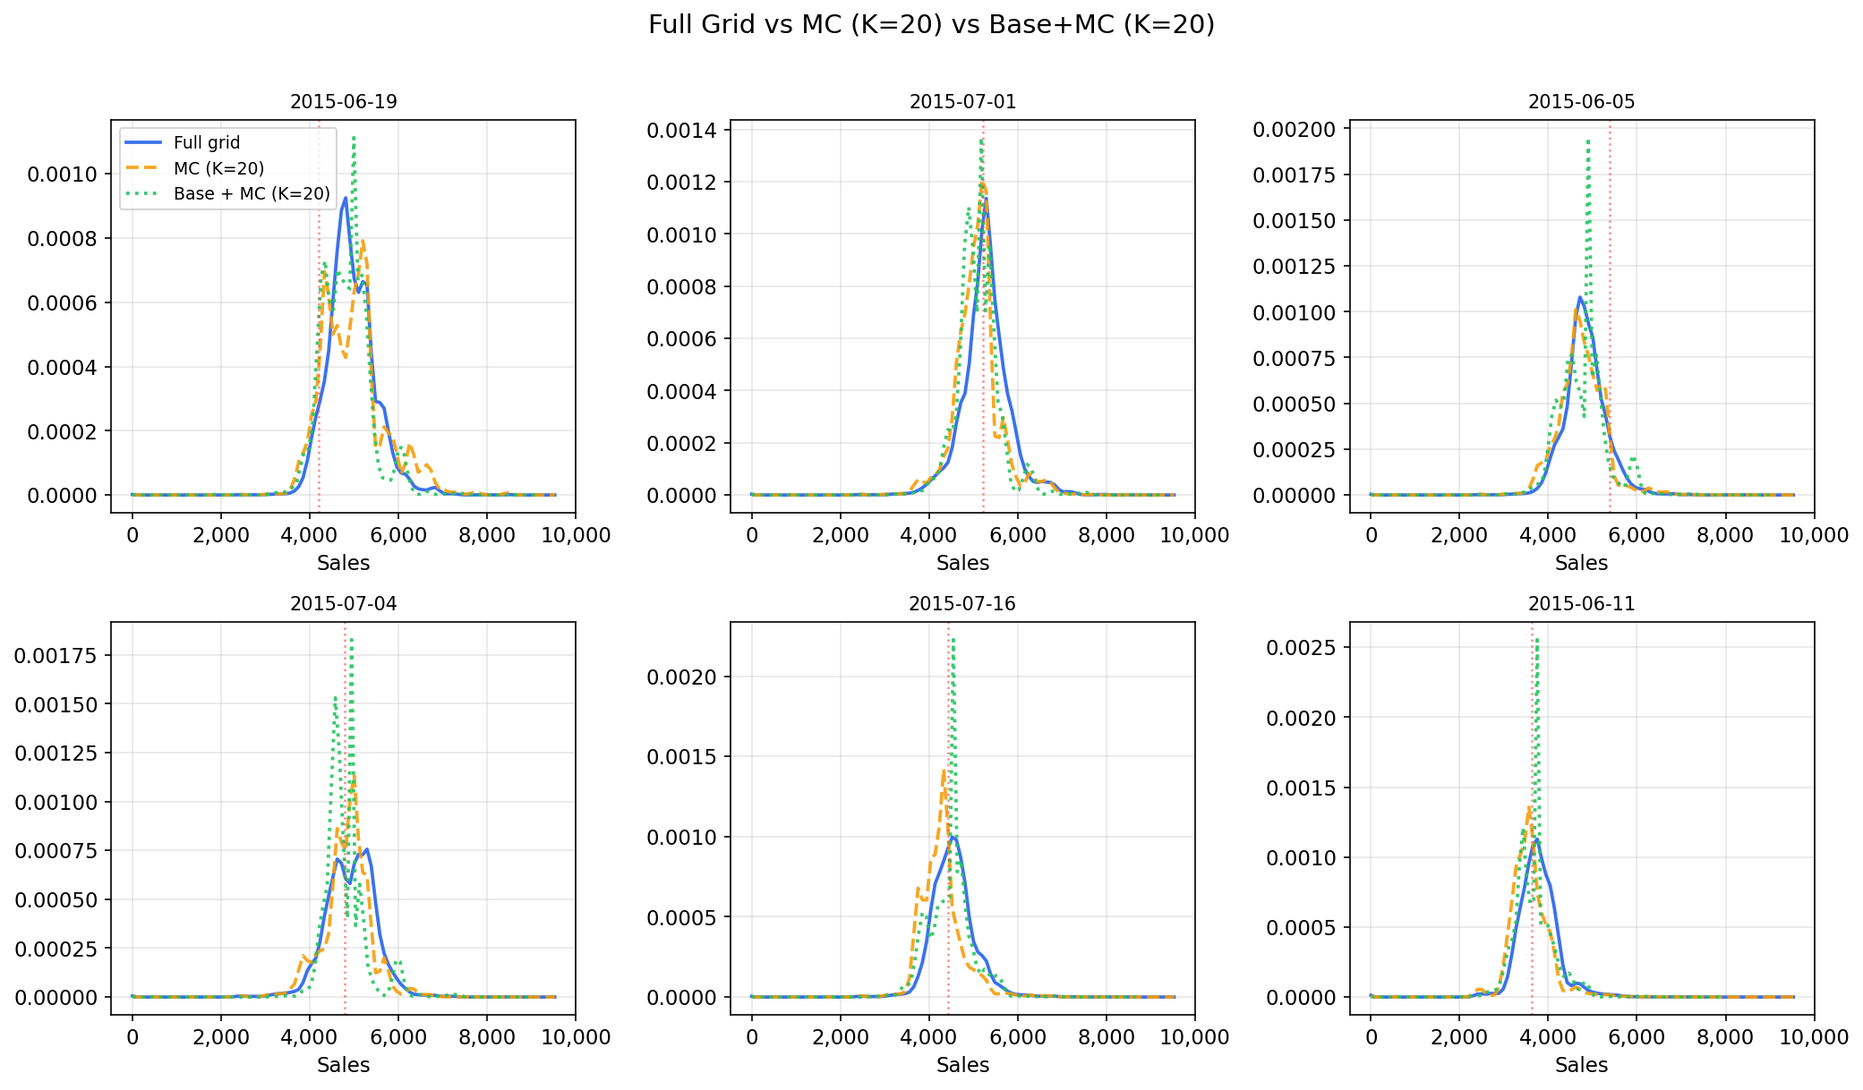
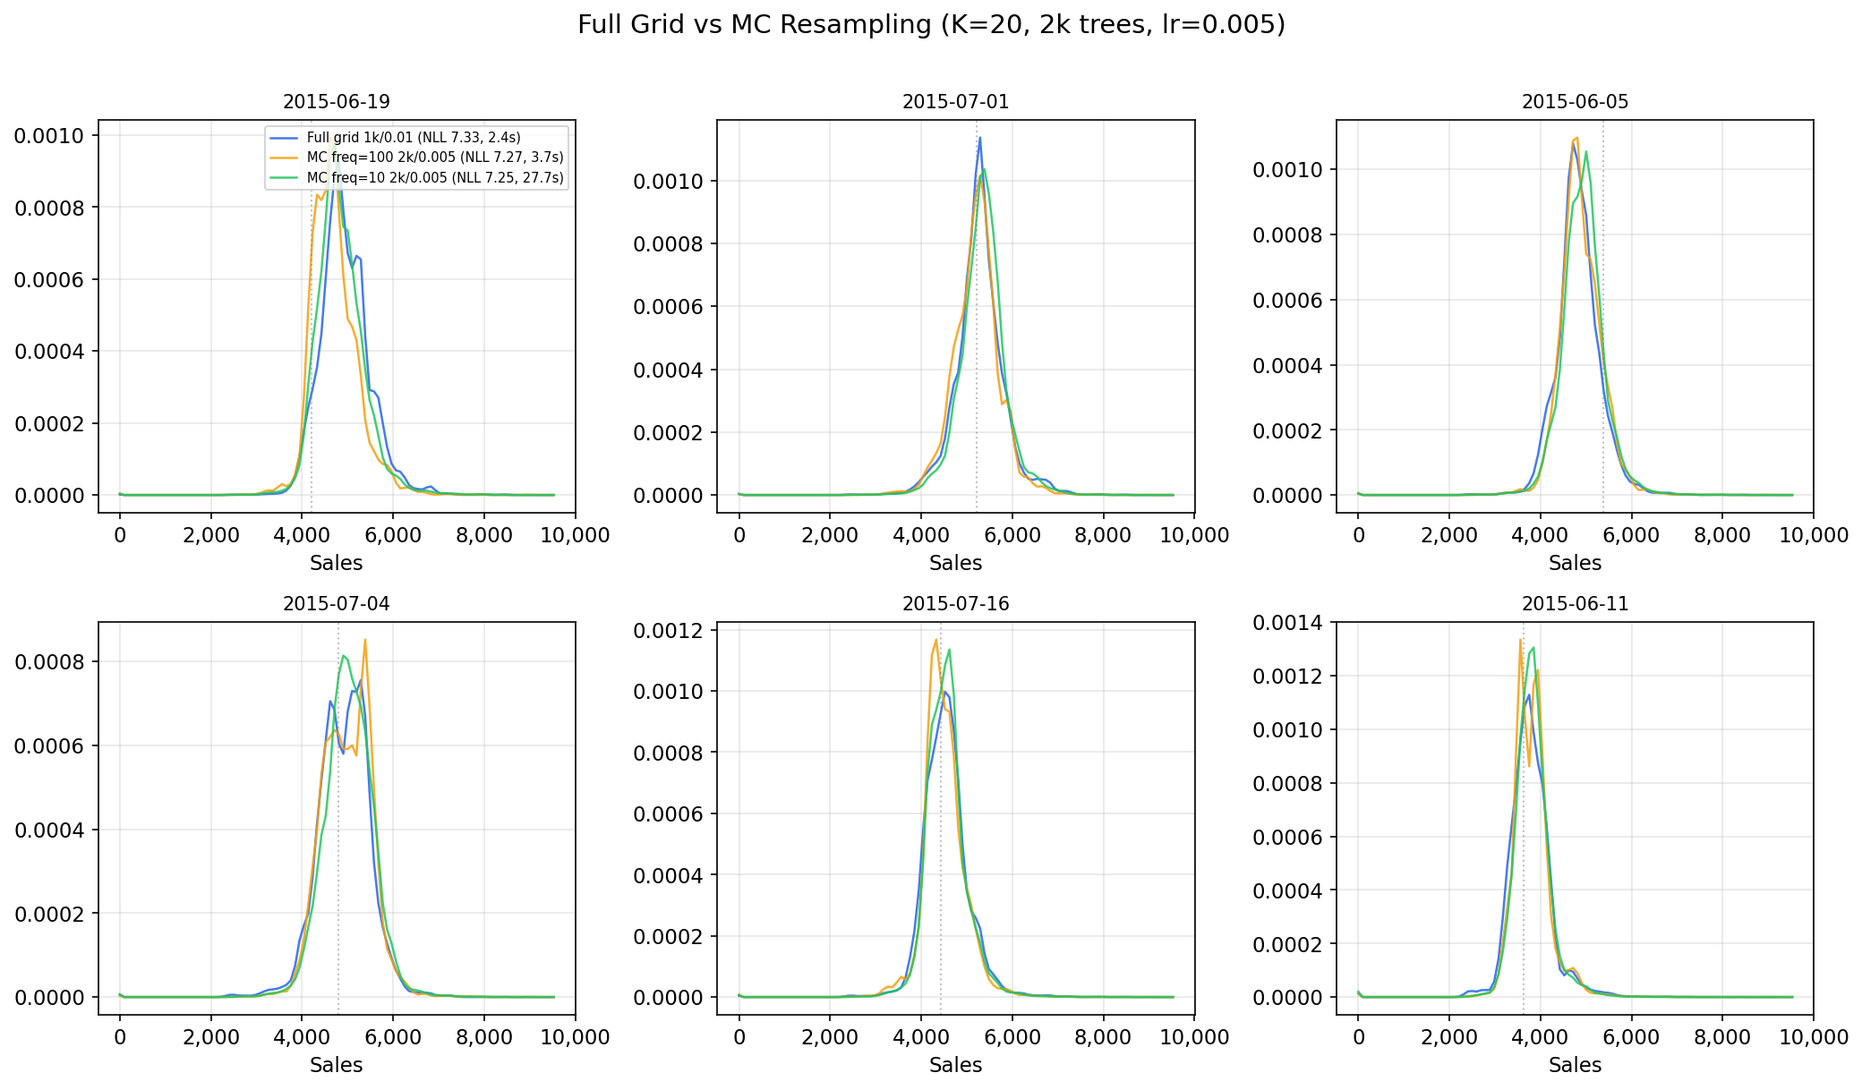
Add mc_resample_freq parameter and update documentation for Monte Carlo training

diff --git a/docs/index.html b/docs/index.html
@@ -839,12 +839,16 @@ model.<span class="fn">set_output_smoothing</span>(output_smoothing=<span class=
             <td><code>monte_carlo_training</code></td><td><code>False</code></td>
             <td>If True, samples a small number of grid points per training sample instead of using the full grid.
                 Reduces memory from <code>n &times; n_bins</code> to <code>n &times; mc_samples</code>.
-                This is an approximation - use only when memory is a constraint.</td>
+                Use with <code>mc_resample_freq</code> for better quality.</td>
           </tr>
           <tr>
             <td><code>mc_samples</code></td><td>5</td>
-            <td>Number of grid points per sample when <code>monte_carlo_training=True</code>. Higher values (e.g., 20)
-                give better approximations. Always a quality trade-off vs. full grid.</td>
+            <td>Number of grid points per sample when <code>monte_carlo_training=True</code>. 20 is a good default.</td>
+          </tr>
+          <tr>
+            <td><code>mc_resample_freq</code></td><td>100</td>
+            <td>Resample MC grid points every this many trees. Lower values give better grid coverage
+                (like SGD over threshold space). 100 is a good default; 10 gives the best quality.</td>
           </tr>
         </tbody>
       </table>
@@ -884,6 +888,7 @@ model.<span class="fn">set_output_smoothing</span>(output_smoothing=<span class=
     use_base_model=<span class="num">False</span>,     <span class="com"># advanced: learn residual distribution</span>
     monte_carlo_training=<span class="num">False</span>,<span class="com"># advanced: memory-efficient MC sampling</span>
     mc_samples=<span class="num">5</span>,             <span class="com"># advanced: MC points per sample</span>
+    mc_resample_freq=<span class="num">100</span>,     <span class="com"># advanced: resample grid points every N trees</span>
     **kwargs                  <span class="com"># passed to LGBMRegressor</span>
 )</pre>
 
@@ -1258,38 +1263,37 @@ model = DistributionRegressor(
       <div class="container">
         <h2>Monte Carlo Training (<code>monte_carlo_training</code>)</h2>
 
-        <div class="highlight-box amber">
-          <strong>Monte Carlo training is an approximation.</strong>
-          Full grid training (the default) gives the highest quality results. Monte Carlo training
-          reduces memory usage significantly but produces noticeably different distributions.
-          Use it only when memory is a binding constraint.
-        </div>
-
         <p class="section-lead">
           By default, the training set is expanded to <code>n_samples &times; n_bins</code> rows: every sample is
-          paired with every grid point. Monte Carlo training instead samples a small number of grid points per
-          sample, reducing the expanded dataset size dramatically - at the cost of distribution quality.
+          paired with every grid point. Monte Carlo training instead samples <code>mc_samples</code> uniform
+          grid points per sample, reducing peak memory significantly. With periodic resampling
+          (<code>mc_resample_freq</code>), different groups of trees train on different random grid points,
+          improving coverage of the threshold space.
         </p>
 
         <h3>How it works</h3>
         <p>
-          For each training sample, Monte Carlo mode selects <code>mc_samples</code> threshold points:
+          For each training sample, <code>mc_samples</code> threshold points are drawn uniformly from the
+          grid range. The <code>mc_resample_freq</code> parameter controls how often fresh points are drawn:
         </p>
         <ul style="padding-left: 20px; color: var(--text-muted); margin: 12px 0;">
-          <li><strong>Point 0:</strong> The exact target value y<sub>i</sub> (the CDF transition point)</li>
-          <li><strong>Points 1&ndash;K:</strong> Uniformly sampled from the grid range</li>
+          <li><strong>mc_resample_freq=100</strong> (default): Resample every 100 trees.
+              With 1000 trees, the model trains on 10 different random grids. Low overhead.</li>
+          <li><strong>mc_resample_freq=10</strong>: Resample every 10 trees. More grid coverage,
+              but higher overhead from repeated dataset construction and LightGBM <code>init_model</code> calls.</li>
         </ul>
         <p>
-          Because each sample only sees K grid points instead of all <code>n_bins</code>, the model receives
-          a sparser training signal. The overall shape is preserved, but fine details of the distribution
-          - peak height, tail behavior, sharpness - can differ from the full grid result.
+          Resampling works via LightGBM's incremental training (<code>init_model</code>): each group
+          of trees continues from the previous model but trains on a freshly sampled expanded dataset.
+          The idea is analogous to mini-batch SGD &mdash; each batch of trees sees a different
+          random slice of the threshold space.
         </p>
 
         <h3>Memory comparison</h3>
         <div class="comparison">
           <div>
             <h4><code>monte_carlo_training=False</code> (default)</h4>
-            <p>Each sample is crossed with <em>all</em> grid points. Best quality.</p>
+            <p>Each sample is crossed with <em>all</em> grid points.</p>
             <p style="margin-top: 8px; font-size: 0.9rem; color: var(--text-muted);">
               100k samples &times; 100 bins = <strong>10M rows</strong>
             </p>
@@ -1299,7 +1303,7 @@ model = DistributionRegressor(
           </div>
           <div>
             <h4><code>monte_carlo_training=True</code></h4>
-            <p>Each sample gets <code>mc_samples</code> sampled points. Approximate.</p>
+            <p>Each sample gets <code>mc_samples</code> points per resampling round.</p>
             <p style="margin-top: 8px; font-size: 0.9rem; color: var(--text-muted);">
               100k samples &times; 20 MC points = <strong>2M rows</strong>
             </p>
@@ -1311,40 +1315,48 @@ model = DistributionRegressor(
 
         <h3>When to use it</h3>
         <p>
-          Use Monte Carlo training only when the full grid expansion would exceed your available memory.
-          This typically happens with very large training sets (100k+ samples) combined with
-          high <code>n_bins</code> (100+). For small to medium datasets, full grid training is fast,
-          fits easily in memory, and should always be preferred.
+          MC training is useful when full grid expansion would exceed available memory &mdash;
+          typically with large training sets (100k+ samples) and high <code>n_bins</code> (100+).
+          For small to medium datasets, the full grid is simpler and fast enough.
         </p>
         <p style="margin-top: 12px;">
-          Higher <code>mc_samples</code> values (e.g., 20) give better approximations at the cost of more memory.
-          There is always a quality trade-off - if memory allows, use the full grid.
+          Resampling (<code>mc_resample_freq</code>) significantly improves MC quality compared to
+          single-shot MC. In our benchmarks on the Rossmann dataset, MC with <code>mc_resample_freq=10</code>
+          produced distributions visually close to the full grid, with comparable NLL.
+          Results may vary by dataset &mdash; we recommend comparing on your own data.
         </p>
 
-<pre><span class="com"># Full grid (default) - always prefer this when memory allows</span>
+<pre><span class="com"># Full grid (default) - simple, good for small/medium datasets</span>
 model = DistributionRegressor(n_bins=<span class="num">100</span>)
 
-<span class="com"># Monte Carlo - approximate, for large datasets where memory is tight</span>
+<span class="com"># MC with resampling - for large datasets where memory is tight</span>
 model = DistributionRegressor(
     monte_carlo_training=<span class="num">True</span>,
     mc_samples=<span class="num">20</span>,
+    mc_resample_freq=<span class="num">100</span>,   <span class="com"># resample grid points every 100 trees</span>
+    n_bins=<span class="num">100</span>,
+)
+
+<span class="com"># MC with frequent resampling - better grid coverage, more overhead</span>
+model = DistributionRegressor(
+    monte_carlo_training=<span class="num">True</span>,
+    mc_samples=<span class="num">20</span>,
+    mc_resample_freq=<span class="num">10</span>,    <span class="com"># resample every 10 trees</span>
     n_bins=<span class="num">100</span>,
 )</pre>
 
         <h3>Quality comparison</h3>
         <p>
-          Monte Carlo training preserves the overall distribution shape but differs in detail
-          from the full grid result. The chart below also shows the effect of combining
-          <code>use_base_model=True</code> with MC training, which produces narrower, shifted distributions:
+          The chart below compares the full grid against MC with two resampling frequencies
+          on the Rossmann dataset. With <code>mc_resample_freq=10</code>, MC closely tracks the
+          full grid distributions:
         </p>
 
         <figure class="figure">
-          <img src="img/mc_comparison.png" alt="Full grid vs MC vs Base+MC comparison">
+          <img src="img/mc_comparison.png" alt="Full grid vs MC resampling comparison">
           <figcaption>
-            Predicted densities on Rossmann test samples. Blue = full grid (reference),
-            orange dashed = MC with K=20 (approximate), green dotted = base model + MC with K=20
-            (narrower, shifted). MC training is a useful approximation when memory is constrained,
-            but full grid training should be preferred when feasible.
+            Predicted densities on Rossmann test samples. Blue = full grid,
+            orange = MC K=20 with freq=100, green = MC K=20 with freq=10.
           </figcaption>
         </figure>
       </div>
@@ -1401,8 +1413,9 @@ model = DistributionRegressor(
         </table>
         <p style="margin-top: 12px; color: var(--text-muted); font-size: 0.95rem;">
           Higher <code>n_bins</code> gives finer resolution but increases memory linearly.
-          If memory is tight, combine higher <code>n_bins</code> with <code>monte_carlo_training=True</code>,
-          but note this is an approximation (see <a href="#" onclick="showSubPage('options', 'montecarlo'); return false;">Monte Carlo Training</a>).
+          If memory is tight, combine higher <code>n_bins</code> with <code>monte_carlo_training=True</code>
+          and <code>mc_resample_freq</code>
+          (see <a href="#" onclick="showSubPage('options', 'montecarlo'); return false;">Monte Carlo Training</a>).
         </p>
 
         <h3>Step 3: Tune the LightGBM parameters</h3>

diff --git a/distribution_regressor/distribution_regressor_CDF.py b/distribution_regressor/distribution_regressor_CDF.py
@@ -41,6 +41,12 @@ class DistributionRegressorCDF(BaseEstimator, RegressorMixin):
         Number of threshold sample points per observation when
         monte_carlo_training=True.
 
+    mc_resample_freq : int, default=100
+        Resample MC grid points every this many trees. E.g. 1 means every
+        tree gets fresh grid points, 100 means resample every 100 trees.
+        Lower = better grid coverage but more overhead. Only used when
+        monte_carlo_training=True.
+
     output_smoothing : float, default=0
         Gaussian smoothing sigma (in grid-index units) applied to the CDF
         before deriving any outputs. Set to 0 to disable. Can be changed
@@ -71,6 +77,7 @@ class DistributionRegressorCDF(BaseEstimator, RegressorMixin):
         learning_rate=0.1,
         monte_carlo_training=False,
         mc_samples=5,
+        mc_resample_freq=100,
         output_smoothing=0,
         atom_values=None,
         random_state=None,
@@ -82,6 +89,7 @@ class DistributionRegressorCDF(BaseEstimator, RegressorMixin):
         self.learning_rate = learning_rate
         self.monte_carlo_training = monte_carlo_training
         self.mc_samples = mc_samples
+        self.mc_resample_freq = mc_resample_freq
         self.output_smoothing = output_smoothing
         self.atom_values = atom_values
         self.random_state = random_state
@@ -200,64 +208,63 @@ class DistributionRegressorCDF(BaseEstimator, RegressorMixin):
         self.grid_ = np.linspace(t_min, t_max, self.n_bins)
 
         # ------------------------------------------------------------------
-        # 4. Training Expansion
+        # 4. Training Expansion + Fitting
         # ------------------------------------------------------------------
         if self.use_base_model:
             r_min = np.maximum(t_min, self.y_min_ - oof_predictions)
             r_max = np.minimum(t_max, self.y_max_ - oof_predictions)
 
-        if self.monte_carlo_training:
-            K = self.mc_samples
-            rng = np.random.default_rng(self.random_state)
-            g_points = np.empty((n_samples, K))
+        use_mc = self.monte_carlo_training
+        K = self.mc_samples if use_mc else self.n_bins
+        freq = self.mc_resample_freq if use_mc else self.n_estimators
+        rng = np.random.default_rng(self.random_state) if use_mc else None
 
-            # Point 0: exact transition point (where CDF jumps from 0 to 1)
-            g_points[:, 0] = target_for_grid
+        # Monotone constraint: CDF must be non-decreasing in grid_point (last col)
+        n_cols = X_df.shape[1] + 1  # +1 for grid_point column
+        mono_constraints = [0] * (n_cols - 1) + [1]
 
-            # Remaining points: uniform over grid range
-            if self.use_base_model:
-                g_points[:, 1:] = (r_min[:, None]
-                                   + rng.uniform(size=(n_samples, K - 1))
-                                   * (r_max - r_min)[:, None])
-                g_points = np.clip(g_points, r_min[:, None], r_max[:, None])
-            else:
-                g_points[:, 1:] = rng.uniform(t_min, t_max, size=(n_samples, K - 1))
-
-            grid_points_flat = g_points.ravel()
-        else:
-            K = self.n_bins
-            if self.use_base_model:
-                per_sample_grids = self._per_sample_grids(oof_predictions)
-                grid_points_flat = per_sample_grids.ravel()
-            else:
-                grid_points_flat = np.tile(self.grid_, n_samples)
-
-        # Build expanded DataFrame
-        X_expanded = self._expand_with_grid_points(X_df, grid_points_flat, K)
-
-        # 5. CDF targets: z_ij = 1{y_i <= tau_j}
-        y_targets = (np.repeat(target_for_grid, K) <= grid_points_flat).astype(np.float64)
-
-        # 6. Train with logistic loss + monotone increasing constraint on grid_point
-        # grid_point is the last column; CDF must be non-decreasing in threshold
-        n_cols = X_expanded.shape[1]
-        mono_constraints = [0] * (n_cols - 1) + [1]  # +1 = increasing for grid_point
-
-        params = {
+        base_params = {
             'objective': 'cross_entropy',
             'metric': 'cross_entropy',
-            'n_estimators': self.n_estimators,
             'learning_rate': self.learning_rate,
             'random_state': self.random_state,
             'monotone_constraints': mono_constraints,
             'verbose': -1
         }
-        params.update(self.lgbm_kwargs)
+        base_params.update(self.lgbm_kwargs)
 
-        self.model_ = LGBMRegressor(**params)
+        self.model_ = None
+        trees_built = 0
 
-        sample_weight_expanded = np.repeat(sample_weight, K) if sample_weight is not None else None
-        self.model_.fit(X_expanded, y_targets, sample_weight=sample_weight_expanded)
+        while trees_built < self.n_estimators:
+            # Sample or build grid points
+            if use_mc:
+                if self.use_base_model:
+                    g_points = (r_min[:, None]
+                                + rng.uniform(size=(n_samples, K))
+                                * (r_max - r_min)[:, None])
+                    g_points = np.clip(g_points, r_min[:, None], r_max[:, None])
+                else:
+                    g_points = rng.uniform(t_min, t_max, size=(n_samples, K))
+                grid_points_flat = g_points.ravel()
+            else:
+                if self.use_base_model:
+                    grid_points_flat = self._per_sample_grids(oof_predictions).ravel()
+                else:
+                    grid_points_flat = np.tile(self.grid_, n_samples)
+
+            X_expanded = self._expand_with_grid_points(X_df, grid_points_flat, K)
+            y_targets = (np.repeat(target_for_grid, K) <= grid_points_flat).astype(np.float64)
+            sw_expanded = np.repeat(sample_weight, K) if sample_weight is not None else None
+
+            n_trees = min(freq, self.n_estimators - trees_built)
+
+            round_params = {**base_params, 'n_estimators': n_trees}
+            round_model = LGBMRegressor(**round_params)
+            round_model.fit(X_expanded, y_targets, sample_weight=sw_expanded,
+                            init_model=self.model_)
+            self.model_ = round_model
+            trees_built += n_trees
 
         return self
 

diff --git a/docs/generate_figures.py b/docs/generate_figures.py
@@ -376,17 +376,22 @@ def fig_mc_comparison():
     print("Generating mc_comparison.png ...")
     _, train, test, features, target = load_rossmann()
 
-    lgbm_params = dict(n_bins=100, n_estimators=1000, learning_rate=0.01,
-                       random_state=42)
+    base_params = dict(n_bins=100, n_estimators=1000, learning_rate=0.01,
+                       random_state=42, use_base_model=False)
 
-    model_full = DistributionRegressor(use_base_model=False, monte_carlo_training=False, **lgbm_params)
-    model_full.fit(train[features], train[target])
+    configs = [
+        ('Full grid', dict(monte_carlo_training=False)),
+        ('MC freq=100', dict(monte_carlo_training=True, mc_samples=20, mc_resample_freq=100)),
+        ('MC freq=10', dict(monte_carlo_training=True, mc_samples=20, mc_resample_freq=10)),
+    ]
+    colors = [BLUE, ORANGE, GREEN]
 
-    model_mc = DistributionRegressor(use_base_model=False, monte_carlo_training=True, mc_samples=20, **lgbm_params)
-    model_mc.fit(train[features], train[target])
-
-    model_base_mc = DistributionRegressor(use_base_model=True, monte_carlo_training=True, mc_samples=20, **lgbm_params)
-    model_base_mc.fit(train[features], train[target])
+    models = {}
+    for label, kw in configs:
+        m = DistributionRegressor(**{**base_params, **kw})
+        m.fit(train[features], train[target])
+        m.set_output_smoothing(output_smoothing=1, atom_values=0)
+        models[label] = m
 
     np.random.seed(123)
     open_test = test[test['Closed'] == False]
@@ -394,40 +399,26 @@ def fig_mc_comparison():
 
     fig, axes = plt.subplots(2, 3, figsize=(14, 8))
 
-    model_full.set_output_smoothing(output_smoothing=1, atom_values=0)
-    model_mc.set_output_smoothing(output_smoothing=1, atom_values=0)
-    model_base_mc.set_output_smoothing(output_smoothing=1, atom_values=0)
-
     for ax, idx in zip(axes.flat, sample_indices):
         row = test.loc[[idx]]
         true_y = row[target].values[0]
         date_str = row['Date'].dt.strftime('%Y-%m-%d').values[0]
 
-        grids_f, dists_f, _ = model_full.predict_distribution(row[features])
-        grids_m, dists_m, _ = model_mc.predict_distribution(row[features])
-        grids_b, dists_b, _ = model_base_mc.predict_distribution(row[features])
+        for (label, m), color in zip(models.items(), colors):
+            grids, dists, _ = m.predict_distribution(row[features])
+            g, dens = plot_density(ax, grids, dists)
+            ax.plot(g, dens, color=color, linewidth=1.2, label=label, alpha=0.85)
 
-        g_f, dens_f = plot_density(ax, grids_f, dists_f)
-        g_m, dens_m = plot_density(ax, grids_m, dists_m)
-        g_b, dens_b = plot_density(ax, grids_b, dists_b)
-
-        ax.plot(g_f, dens_f, color=BLUE, linewidth=1.8, label='Full grid', alpha=0.9)
-        ax.plot(g_m, dens_m, color=ORANGE, linewidth=1.8, label='MC (K=20)',
-                linestyle='--', alpha=0.9)
-        ax.plot(g_b, dens_b, color=GREEN, linewidth=1.8, label='Base + MC (K=20)',
-                linestyle=':', alpha=0.9)
         ax.axvline(true_y, color=RED, linestyle=':', linewidth=1.2, alpha=0.6)
-
         ax.set_title(date_str, fontsize=10)
         ax.set_xlabel('Sales')
         ax.xaxis.set_major_formatter(FuncFormatter(lambda x, p: f'{x:,.0f}'))
 
-    model_full.set_output_smoothing(output_smoothing=0)
-    model_mc.set_output_smoothing(output_smoothing=0)
-    model_base_mc.set_output_smoothing(output_smoothing=0)
+    for m in models.values():
+        m.set_output_smoothing(output_smoothing=0)
 
     axes.flat[0].legend(fontsize=9)
-    plt.suptitle('Full Grid vs MC (K=20) vs Base+MC (K=20)', fontsize=14, y=1.01)
+    plt.suptitle('Full Grid vs MC Resampling (K=20)', fontsize=14, y=1.01)
     plt.tight_layout()
     plt.savefig(os.path.join(IMG_DIR, 'mc_comparison.png'), dpi=150, bbox_inches='tight')
     plt.close()

diff --git a/README.md b/README.md
@@ -66,6 +66,7 @@ DistributionRegressor(
     use_base_model=False,   # If True, learns residual CDF around a base LGBM prediction
     monte_carlo_training=False,  # If True, sample grid points instead of full expansion
     mc_samples=5,           # MC sample points per observation (when MC enabled)
+    mc_resample_freq=100,   # Resample grid points every N trees (lower = better coverage)
     n_estimators=100,       # LightGBM trees
     learning_rate=0.1,      # Learning rate
     random_state=42,        # Seed
